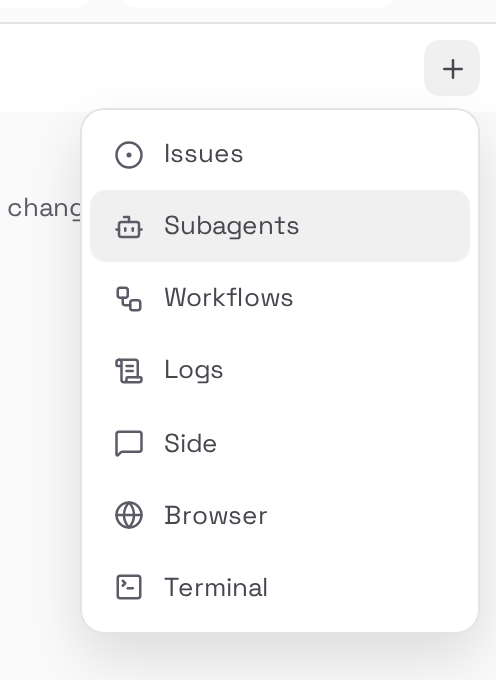
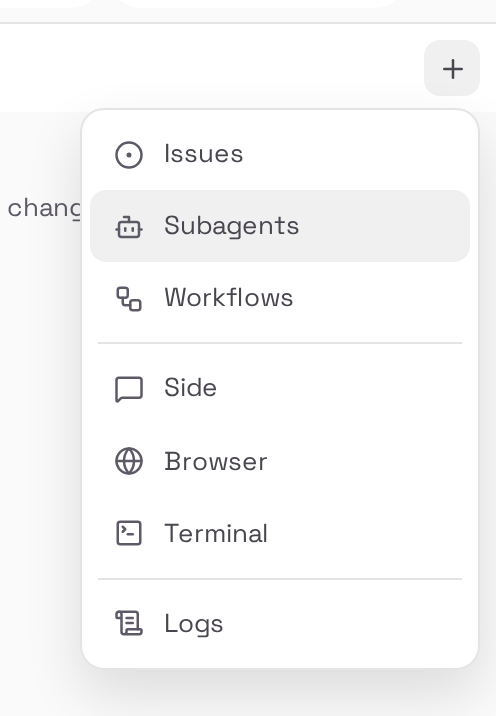
fix(chat): group the side panel's + tab menu with separators (#1714)
The menu's eight rows were three unrelated kinds of thing in arbitrary order —
what this chat referenced or produced, workspaces the user types into, and
diagnostics — presented as one flat list with no hierarchy. Nothing told you
that Side/Browser/Terminal are the ones you interact with, or that Logs and
Context breakdown are debug surfaces rather than session content.

`NEW_MENU` becomes `NEW_MENU_GROUPS`, and the menu renders a
`DropdownMenuSeparator` between groups:

  Issues · Subagents · Workflows
  ──
  Side · Browser · Terminal
  ──
  Logs · Context breakdown

Deliberately UNLABELLED. Three mockups were compared (two labelled sections,
three labelled sections, rules only) and rules-only was chosen: three group
headings add ~90px of chrome to an eight-row menu for hierarchy the grouping
already conveys.

`newMenuSections()` replaces `newMenuItems()`: it filters WITHIN each group and
then drops emptied groups, so neither gate — Terminal hidden when the feature is
disabled server-side, Context breakdown hidden unless Developer Mode is on —
can leave a separator with no rows after it. Groups are keyed by their first
surviving row rather than by index, since a gate that empties a whole group
changes what an index means. The empty-state launcher reads the same groups
flattened, so its two-column grid (which has nowhere to put a separator) cannot
disagree with the menu about order.

Verification
[…]

diff --git a/website/src/pages/chat/SidePanel.tsx b/website/src/pages/chat/SidePanel.tsx
@@ -1,4 +1,4 @@
-import { useState, useRef, useEffect, useCallback, useMemo, type ReactNode } from 'react'
+import { useState, useRef, useEffect, useCallback, useMemo, Fragment, type ReactNode } from 'react'
 import { useIsMobile } from '../../hooks/useIsMobile'
 import { useDevMode } from '../../hooks/useDevMode'
 import { usePointerDrag } from '../../hooks/usePointerDrag'
@@ -20,7 +20,7 @@ import type { usePanelTabs, ViewKind, PanelTab, TabKind } from '../../hooks/useP
 import { PINNED_VIEWS, useAllAppTabs } from '../../hooks/usePanelTabs'
 import { usePersistedBool } from '../../hooks/usePersistedBool'
 import {
-  DropdownMenu, DropdownMenuTrigger, DropdownMenuContent, DropdownMenuItem
+  DropdownMenu, DropdownMenuTrigger, DropdownMenuContent, DropdownMenuItem, DropdownMenuSeparator
 } from '../../components/ui/dropdown-menu'
 import { safeSetItem } from '../../utils/safeStorage'
 import { useAppSelector } from '../../store'
@@ -83,20 +83,43 @@ export const NEW_MENU_DESC_KEY: Record<ViewKind | 'terminal', string> = {
   terminal: 'pages.chat.sidePanel.menu_terminal_desc',
 }
 
-/** Views offered by the + menu. `kind` is the PERSISTED tab id (`usePanelTabs`),
- *  so it stays a code constant — only its label and description are localised. */
-const NEW_MENU: { kind: ViewKind | 'terminal'; icon: ReactNode }[] = [
-  { kind: 'changes', icon: <GitPullRequest size={15} /> },
-  { kind: 'issues', icon: <CircleDot size={15} /> },
-  { kind: 'files', icon: <FileText size={15} /> },
-  { kind: 'artifacts', icon: <Component size={15} /> },
-  { kind: 'subagents', icon: <Bot size={15} /> },
-  { kind: 'workflows', icon: <Workflow size={15} /> },
-  { kind: 'logs', icon: <ScrollText size={15} /> },
-  { kind: 'context', icon: <Layers size={15} /> },
-  { kind: 'side', icon: <MessageSquare size={15} /> },
-  { kind: 'browser', icon: <Globe size={15} /> },
-  { kind: 'terminal', icon: <TerminalSquare size={15} /> },
+/** Views offered by the + menu, in the three semantic groups the menu renders
+ *  with a separator between them. `kind` is the PERSISTED tab id
+ *  (`usePanelTabs`), so it stays a code constant — only its label and
+ *  description are localised.
+ *
+ *  Groups, not one flat list, because the eight rows were three unrelated
+ *  kinds of thing in arbitrary order: what this chat produced, surfaces the
+ *  user drives themselves, and diagnostics. They are deliberately UNLABELLED
+ *  (rules only): three group headings would add ~90px of chrome to an
+ *  eight-row menu for hierarchy the grouping already conveys.
+ *
+ *  Every key of `NEW_MENU_LABEL_KEY` must appear exactly once across the
+ *  groups — `sidePanelAddMenu.test.tsx` pins that partition, so adding a view
+ *  without placing it in a group fails rather than silently dropping it. */
+const NEW_MENU_GROUPS: { kind: ViewKind | 'terminal'; icon: ReactNode }[][] = [
+  // Session output — what this chat referenced or produced. (Changes / Files /
+  // Artifacts are auto-pinned and filtered out below; they are listed here so
+  // this table stays the complete catalog of views.)
+  [
+    { kind: 'changes', icon: <GitPullRequest size={15} /> },
+    { kind: 'issues', icon: <CircleDot size={15} /> },
+    { kind: 'files', icon: <FileText size={15} /> },
+    { kind: 'artifacts', icon: <Component size={15} /> },
+    { kind: 'subagents', icon: <Bot size={15} /> },
+    { kind: 'workflows', icon: <Workflow size={15} /> },
+  ],
+  // Interactive workspaces — the surfaces the user types into.
+  [
+    { kind: 'side', icon: <MessageSquare size={15} /> },
+    { kind: 'browser', icon: <Globe size={15} /> },
+    { kind: 'terminal', icon: <TerminalSquare size={15} /> },
+  ],
+  // Diagnostics.
+  [
+    { kind: 'logs', icon: <ScrollText size={15} /> },
+    { kind: 'context', icon: <Layers size={15} /> },
+  ],
 ]
 
 const VIEW_KINDS = new Set<TabKind>(['changes', 'issues', 'files', 'artifacts', 'subagents', 'workflows', 'logs', 'context', 'side'])
@@ -106,15 +129,22 @@ const VIEW_KINDS = new Set<TabKind>(['changes', 'issues', 'files', 'artifacts', 
  *  breakdown is a developer surface hidden unless Developer Mode is on (Settings
  *  > Developer) — same consent gate the standalone Developer page uses. The
  *  auto-managed pinned views (Changes / Files / Artifacts) are never listed;
- *  they appear on their own when they have content. */
-export function newMenuItems(
+ *  they appear on their own when they have content.
+ *
+ *  Grouped, and **emptied groups are dropped**: Diagnostics shrinks to one row
+ *  with Developer Mode off and Workspaces to two with Terminal disabled, and a
+ *  group that filtered down to nothing would otherwise render as a separator
+ *  with no rows after it. */
+export function newMenuSections(
   opts: { devMode: boolean; terminalEnabled: boolean },
-): { kind: ViewKind | 'terminal'; icon: ReactNode }[] {
-  return NEW_MENU.filter(item =>
-    (opts.terminalEnabled || item.kind !== 'terminal')
-    && (opts.devMode || item.kind !== 'context')
-    && !(PINNED_VIEWS as string[]).includes(item.kind),
-  )
+): { kind: ViewKind | 'terminal'; icon: ReactNode }[][] {
+  return NEW_MENU_GROUPS
+    .map(group => group.filter(item =>
+      (opts.terminalEnabled || item.kind !== 'terminal')
+      && (opts.devMode || item.kind !== 'context')
+      && !(PINNED_VIEWS as string[]).includes(item.kind),
+    ))
+    .filter(group => group.length > 0)
 }
 
 interface SidePanelProps {
@@ -277,7 +307,11 @@ export default function SidePanel({
   // never list the auto-managed pinned views (Changes / Files / Artifacts) —
   // those appear on their own when they have content (see the syncPinned
   // reconcile below).
-  const menuItems = newMenuItems({ devMode, terminalEnabled })
+  const menuSections = newMenuSections({ devMode, terminalEnabled })
+  // The empty-state launcher shows the same entries flat: its two-column grid
+  // has nowhere to put a separator, but it must not disagree with the menu
+  // about ORDER, so it reads the groups rather than its own list.
+  const menuItems = menuSections.flat()
   // Files / Artifacts / Changes are ALWAYS present — pinned to the front,
   // non-closable, and never in the + menu — regardless of whether they
   // currently have content.
@@ -448,15 +482,23 @@ export default function SidePanel({
             </button>
           </DropdownMenuTrigger>
           <DropdownMenuContent align="end" sideOffset={6} className="min-w-[200px]">
-            {menuItems.map(item => (
-              <DropdownMenuItem
-                key={item.kind}
-                className="gap-2.5 py-2"
-                onSelect={() => openMenuItem(item.kind)}
-              >
-                <span className="text-muted shrink-0">{item.icon}</span>
-                <span className="flex-1">{i18nT(NEW_MENU_LABEL_KEY[item.kind])}</span>
-              </DropdownMenuItem>
+            {menuSections.map((section, i) => (
+              // Keyed by the group's first surviving row, not the index: a gate
+              // that empties a whole group changes what index i means, and a
+              // stale index key would let React reuse the wrong group's rows.
+              <Fragment key={section[0].kind}>
+                {i > 0 && <DropdownMenuSeparator />}
+                {section.map(item => (
+                  <DropdownMenuItem
+                    key={item.kind}
+                    className="gap-2.5 py-2"
+                    onSelect={() => openMenuItem(item.kind)}
+                  >
+                    <span className="text-muted shrink-0">{item.icon}</span>
+                    <span className="flex-1">{i18nT(NEW_MENU_LABEL_KEY[item.kind])}</span>
+                  </DropdownMenuItem>
+                ))}
+              </Fragment>
             ))}
           </DropdownMenuContent>
         </DropdownMenu>

diff --git a/website/src/test/sidePanelAddMenu.test.tsx b/website/src/test/sidePanelAddMenu.test.tsx
@@ -38,7 +38,7 @@ vi.mock('../hooks/useIsMobile', () => ({ useIsMobile: () => false }))
 
 globalThis.ResizeObserver = class { observe() {} unobserve() {} disconnect() {} } as never
 
-import SidePanel from '../pages/chat/SidePanel'
+import SidePanel, { newMenuSections, NEW_MENU_LABEL_KEY } from '../pages/chat/SidePanel'
 import { usePanelTabs } from '../hooks/usePanelTabs'
 
 function Harness() {
@@ -98,5 +98,65 @@ describe('side panel + menu (shadcn dropdown)', () => {
     openMenu()
     act(() => { fireEvent.keyDown(screen.getByRole('menu'), { key: 'Escape' }) })
     expect(screen.queryByRole('menu')).toBeNull()
+  })
+
+  it('renders one separator between the groups and none at the edges', () => {
+    renderPanel()
+    openMenu()
+    const menu = screen.getByRole('menu')
+    const kids = Array.from(menu.children)
+    const seps = kids.filter(el => el.getAttribute('role') === 'separator')
+    // Terminal is disabled and Developer Mode off in this harness, so the
+    // Diagnostics group is Logs alone and Workspaces is Side + Browser: three
+    // surviving groups, two rules.
+    expect(seps).toHaveLength(2)
+    expect(kids[0].getAttribute('role')).toBe('menuitem')
+    expect(kids[kids.length - 1].getAttribute('role')).toBe('menuitem')
+    // Rules separate groups, so no two are adjacent.
+    const roles = kids.map(el => el.getAttribute('role'))
+    expect(roles.join(' ')).not.toContain('separator separator')
+  })
+})
+
+describe('newMenuSections', () => {
+  const kinds = (o: { devMode: boolean; terminalEnabled: boolean }) =>
+    newMenuSections(o).map(g => g.map(i => i.kind))
+
+  it('partitions every catalogued view exactly once', () => {
+    // Both gates open, so nothing is filtered but the auto-pinned views. Any
+    // view added to NEW_MENU_LABEL_KEY without being placed in a group — or
+    // placed in two — fails here instead of quietly vanishing from the menu.
+    const flat = kinds({ devMode: true, terminalEnabled: true }).flat()
+    const pinned = ['changes', 'files', 'artifacts']
+    const catalogued = Object.keys(NEW_MENU_LABEL_KEY).filter(k => !pinned.includes(k))
+    expect([...flat].sort()).toEqual([...catalogued].sort())
+    expect(new Set(flat).size).toBe(flat.length)
+  })
+
+  it('groups by session output, workspaces, then diagnostics', () => {
+    expect(kinds({ devMode: true, terminalEnabled: true })).toEqual([
+      ['issues', 'subagents', 'workflows'],
+      ['side', 'browser', 'terminal'],
+      ['logs', 'context'],
+    ])
+  })
+
+  it('drops a group the gates emptied instead of leaving a stray separator', () => {
+    // Neither gate can currently empty a whole group (Workspaces keeps Side +
+    // Browser, Diagnostics keeps Logs), so the invariant is asserted directly:
+    // no returned group is ever empty, under any gate combination.
+    for (const devMode of [false, true]) {
+      for (const terminalEnabled of [false, true]) {
+        for (const group of newMenuSections({ devMode, terminalEnabled })) {
+          expect(group.length).toBeGreaterThan(0)
+        }
+      }
+    }
+    // And the gated rows really are the ones that go.
+    expect(kinds({ devMode: false, terminalEnabled: false })).toEqual([
+      ['issues', 'subagents', 'workflows'],
+      ['side', 'browser'],
+      ['logs'],
+    ])
   })
 })

diff --git a/website/src/test/ContextBreakdownPanel.test.tsx b/website/src/test/ContextBreakdownPanel.test.tsx
@@ -215,12 +215,12 @@ describe('placement: a per-session tab, not a global page', () => {
   })
 
   it('is hidden from the + menu unless Developer Mode is on', async () => {
-    const { newMenuItems } = await import('../pages/chat/SidePanel')
+    const { newMenuSections } = await import('../pages/chat/SidePanel')
     const kinds = (o: { devMode: boolean; terminalEnabled: boolean }) =>
-      newMenuItems(o).map(i => i.kind)
+      newMenuSections(o).flat().map(i => i.kind)
     // Dev mode off: Context breakdown is not offered — it is a developer surface.
     expect(kinds({ devMode: false, terminalEnabled: true })).not.toContain('context')
-    // Dev mode on: it appears (right after Logs, before Side).
+    // Dev mode on: it appears (right after Logs, closing the diagnostics group).
     const on = kinds({ devMode: true, terminalEnabled: true })
     expect(on).toContain('context')
     expect(on.indexOf('context')).toBe(on.indexOf('logs') + 1)
